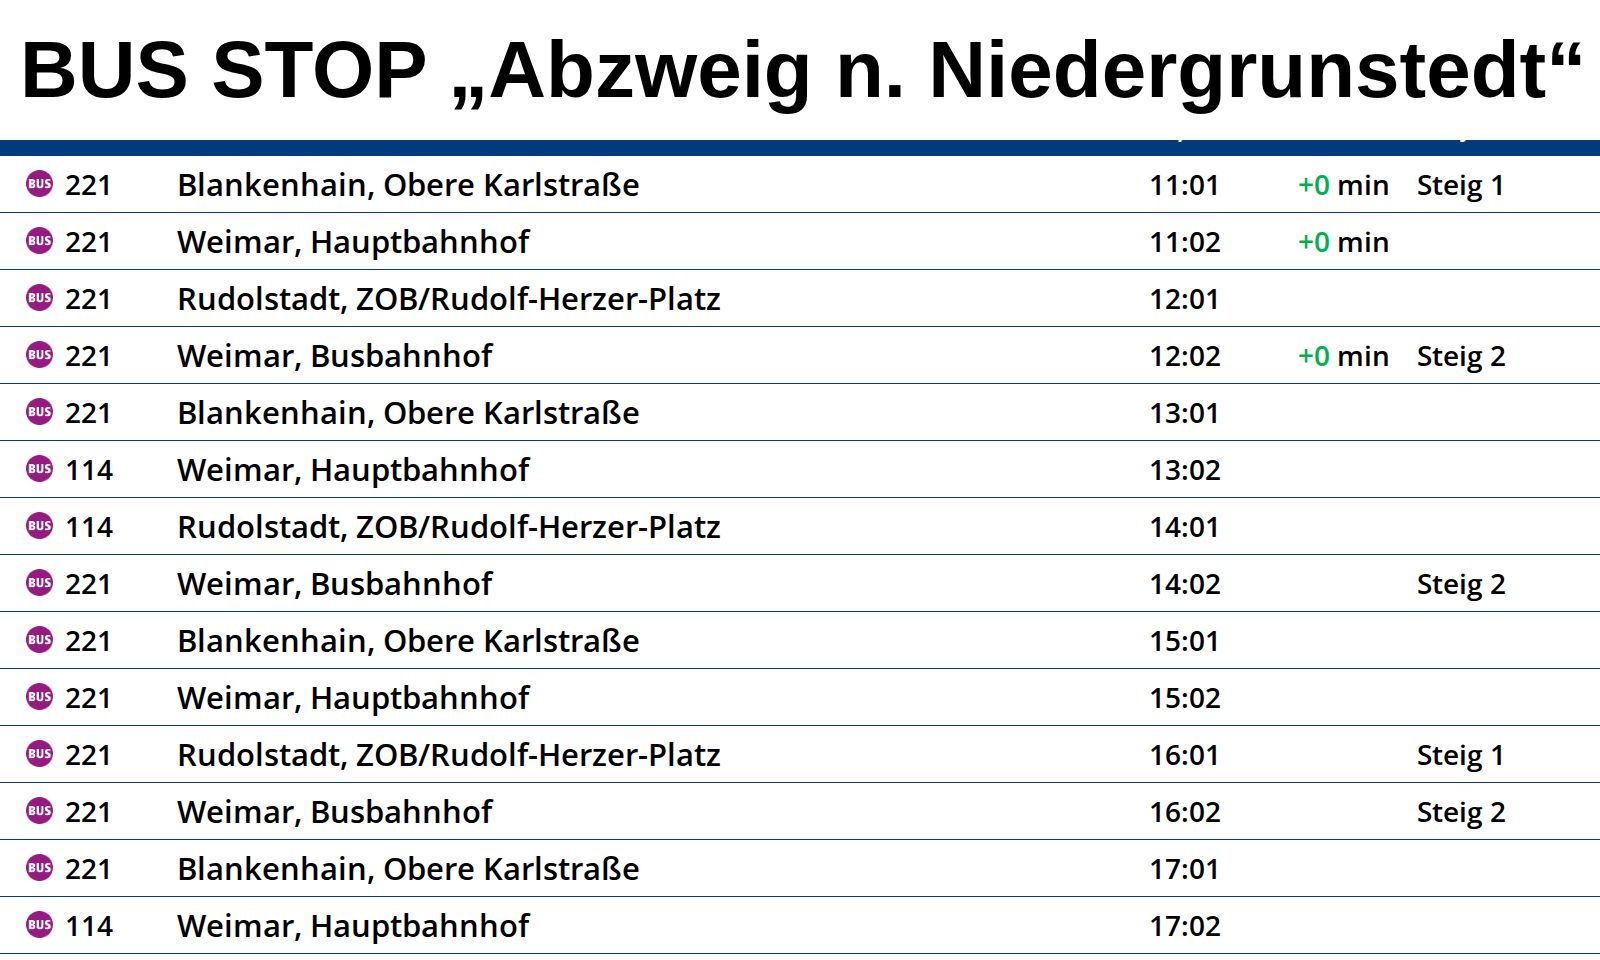
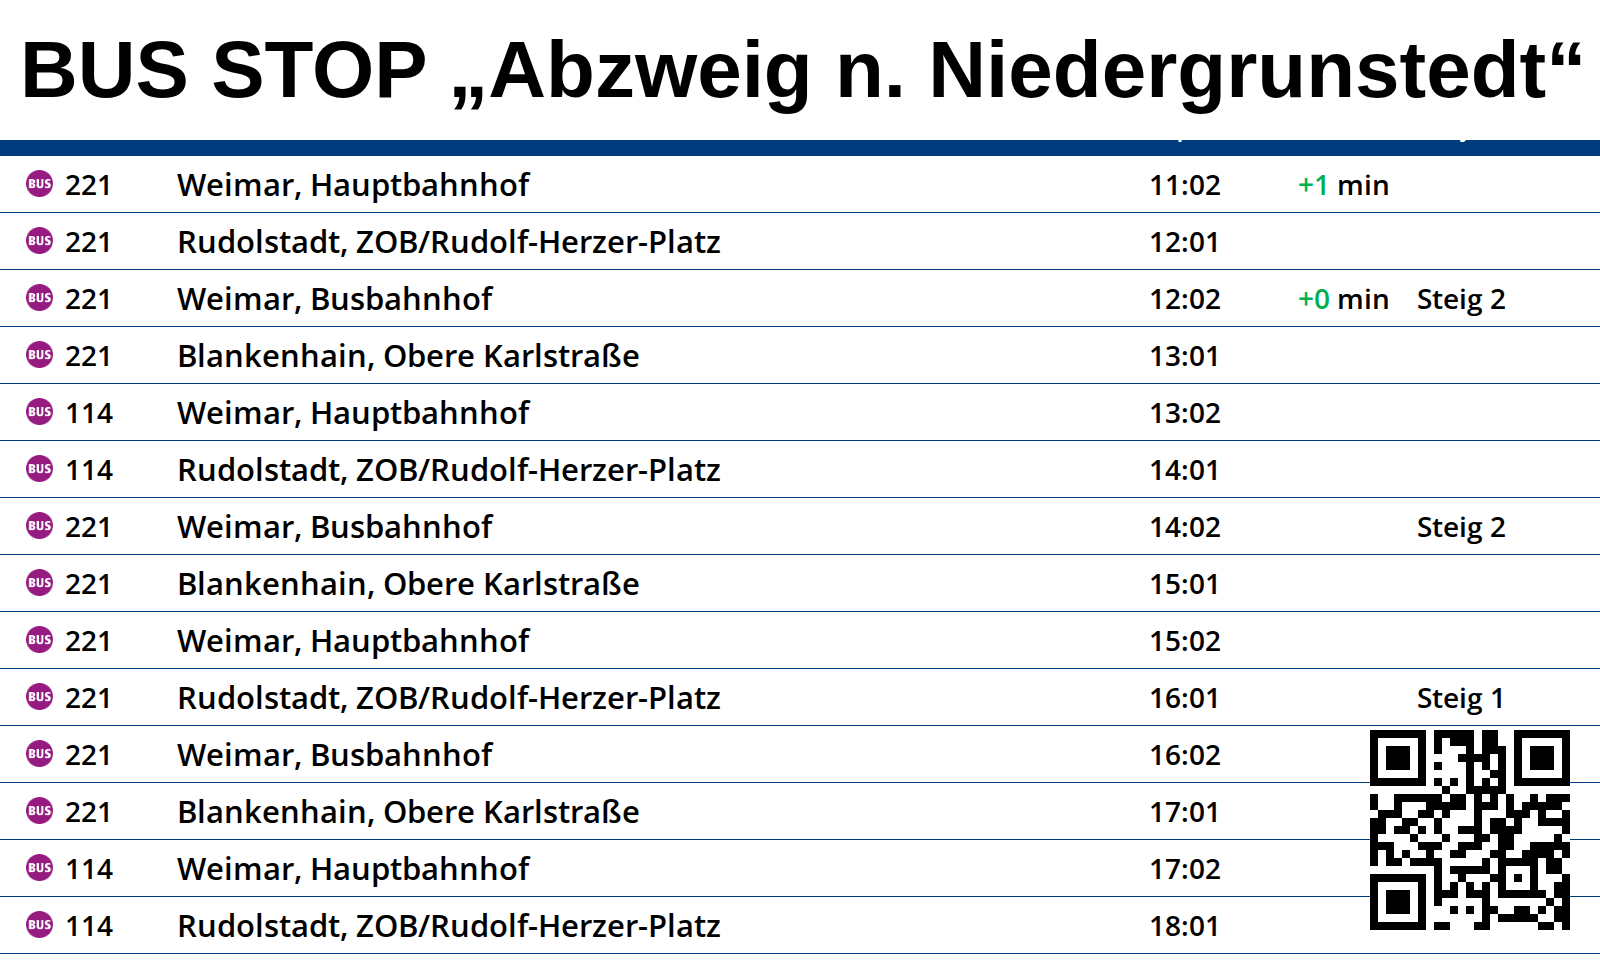
deploy: aa2ccb0fc4d72b5ba7097cf655e2d5aa0bb34892

diff --git a/capture.js b/capture.js
@@ -1,17 +1,43 @@
 const { chromium } = require('playwright');
+const QRCode = require('qrcode');
 
 // ==============================
 // HEADER SETTINGS
 // ==============================
 const HEADER = {
-  enabled: true,
+  enabled: true,
 
-  text: 'BUS STOP „Abzweig n. Niedergrunstedt“',
+  text: 'BUS STOP „Abzweig n. Niedergrunstedt“',
 
-  height: 140,              // Header height in px
-  background: '#FFFFFF',   // Header background
-  textColor: '#000000',    // Text color
-  fontSize: 80             // Text size in px
+  height: 140,              // Header height in px
+  background: '#FFFFFF',    // Header background
+  textColor: '#000000',     // Header text color
+  fontSize: 80              // Header text size in px
+};
+
+
+// ==============================
+// QR CODE SETTINGS
+// ==============================
+const QR = {
+  enabled: true,
+
+  // Website encoded in the QR code
+  contentUrl: 'https://CONTENTURL.NET',
+
+  // QR code size in px
+  // Width and height are ALWAYS the same
+  size: 200,
+
+  // QR code color
+  color: '#000000',
+
+  // QR code background color
+  background: '#FFFFFF',
+
+  // Position from screen edges
+  right: 30,
+  bottom: 30
 };
 
 
@@ -19,87 +45,191 @@ const HEADER = {
 // CAPTURE
 // ==============================
 (async () => {
-  const browser = await chromium.launch();
 
-  const page = await browser.newPage({
-    viewport: {
-      width: 1600,
-      height: 960
-    }
-  });
+  const browser = await chromium.launch();
 
-  // Navigate to HAFAS
-  await page.goto(
-    'https://vmt.hafas.cloud/mct/views/monitor/index.html?cfgFile=Bb01FAozvVHK2oWN7hjA_1612186328552',
-    {
-      waitUntil: 'networkidle'
-    }
-  );
-
-  // Wait for live bus rows to render
-  await page.waitForTimeout(5000);
+  const page = await browser.newPage({
+    viewport: {
+      width: 1600,
+      height: 960
+    }
+  });
 
 
-  // ==============================
-  // ADD HEADER
-  // ==============================
-  if (HEADER.enabled) {
-
-    await page.evaluate((header) => {
-
-      // Create header
-      const bar = document.createElement('div');
-
-      bar.id = 'github-capture-header';
-
-      bar.innerText = header.text;
-
-      // Header styling
-      Object.assign(bar.style, {
-        position: 'fixed',
-        top: '0',
-        left: '0',
-        width: '100%',
-        height: `${header.height}px`,
-        background: header.background,
-        color: header.textColor,
-        fontSize: `${header.fontSize}px`,
-        fontFamily: 'Arial, Helvetica, sans-serif',
-        fontWeight: 'bold',
-        display: 'flex',
-        alignItems: 'center',
-        justifyContent: 'flex-start',
-        paddingLeft: '20px',
-        boxSizing: 'border-box',
-        zIndex: '999999',
-        lineHeight: '1',
-        overflow: 'hidden',
-        whiteSpace: 'nowrap'
-      });
-
-      document.body.appendChild(bar);
+  // ==============================
+  // OPEN HAFAS
+  // ==============================
+  await page.goto(
+    'https://vmt.hafas.cloud/mct/views/monitor/index.html?cfgFile=Bb01FAozvVHK2oWN7hjA_1612186328552',
+    {
+      waitUntil: 'networkidle'
+    }
+  );
 
 
-      // Push the HAFAS page down
-      document.body.style.paddingTop = `${header.height}px`;
-      document.body.style.boxSizing = 'border-box';
-
-    }, HEADER);
-  }
+  // ==============================
+  // WAIT FOR LIVE BUS DATA
+  // ==============================
+  await page.waitForTimeout(5000);
 
 
-  // Small delay so browser renders injected header
-  await page.waitForTimeout(500);
+  // ==============================
+  // ADD HEADER
+  // ==============================
+  if (HEADER.enabled) {
+
+    await page.evaluate((header) => {
+
+      const bar = document.createElement('div');
+
+      bar.id = 'github-capture-header';
+
+      bar.innerText = header.text;
 
 
-  // ==============================
-  // SAVE SCREENSHOT
-  // ==============================
-  await page.screenshot({
-    path: 'latest.png',
-    type: 'png'
-  });
+      // Header styling
+      Object.assign(bar.style, {
+
+        position: 'fixed',
+
+        top: '0',
+        left: '0',
+
+        width: '100%',
+
+        height: `${header.height}px`,
+
+        background: header.background,
+
+        color: header.textColor,
+
+        fontSize: `${header.fontSize}px`,
+
+        fontFamily: 'Arial, Helvetica, sans-serif',
+
+        fontWeight: 'bold',
+
+        display: 'flex',
+
+        alignItems: 'center',
+
+        justifyContent: 'flex-start',
+
+        paddingLeft: '20px',
+
+        boxSizing: 'border-box',
+
+        zIndex: '999999',
+
+        lineHeight: '1',
+
+        overflow: 'hidden',
+
+        whiteSpace: 'nowrap'
+      });
 
 
-  await browser.close();
+      document.body.appendChild(bar);
+
+
+      // Push HAFAS content down
+      document.body.style.paddingTop = `${header.height}px`;
+
+      document.body.style.boxSizing = 'border-box';
+
+    }, HEADER);
+  }
+
+
+  // ==============================
+  // CREATE QR CODE
+  // ==============================
+  if (QR.enabled) {
+
+    const qrDataUrl = await QRCode.toDataURL(
+      QR.contentUrl,
+      {
+        width: QR.size,
+
+        margin: 0,
+
+        color: {
+          dark: QR.color,
+          light: QR.background
+        },
+
+        errorCorrectionLevel: 'M'
+      }
+    );
+
+
+    // Add QR to page
+    await page.evaluate((qr) => {
+
+      const qrImage = document.createElement('img');
+
+      qrImage.id = 'github-capture-qr';
+
+      qrImage.src = qr.dataUrl;
+
+
+      // QR styling
+      Object.assign(qrImage.style, {
+
+        position: 'fixed',
+
+        width: `${qr.size}px`,
+
+        height: `${qr.size}px`,
+
+        right: `${qr.right}px`,
+
+        bottom: `${qr.bottom}px`,
+
+        display: 'block',
+
+        margin: '0',
+
+        padding: '0',
+
+        zIndex: '999999'
+      });
+
+
+      document.body.appendChild(qrImage);
+
+    }, {
+
+      dataUrl: qrDataUrl,
+
+      size: QR.size,
+
+      right: QR.right,
+
+      bottom: QR.bottom
+
+    });
+  }
+
+
+  // ==============================
+  // WAIT FOR QR TO RENDER
+  // ==============================
+  await page.waitForTimeout(500);
+
+
+  // ==============================
+  // SAVE SCREENSHOT
+  // ==============================
+  await page.screenshot({
+    path: 'latest.png',
+    type: 'png'
+  });
+
+
+  // ==============================
+  // CLOSE BROWSER
+  // ==============================
+  await browser.close();
+
 })();
